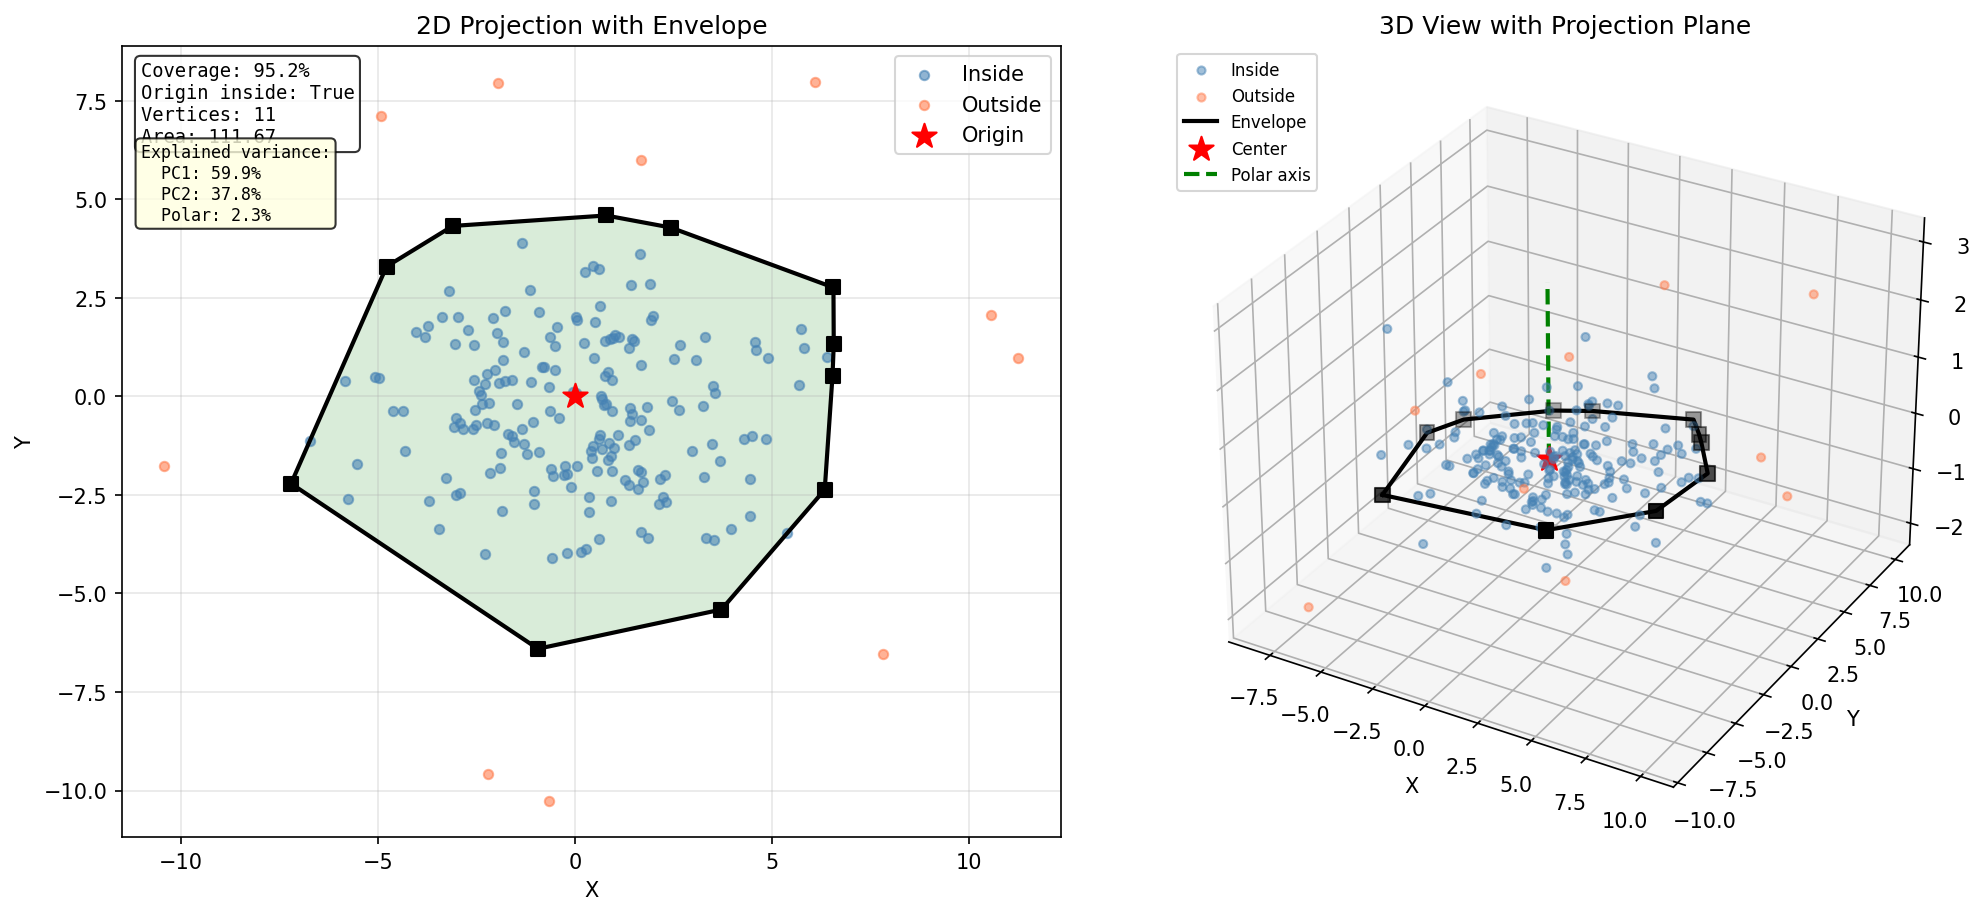
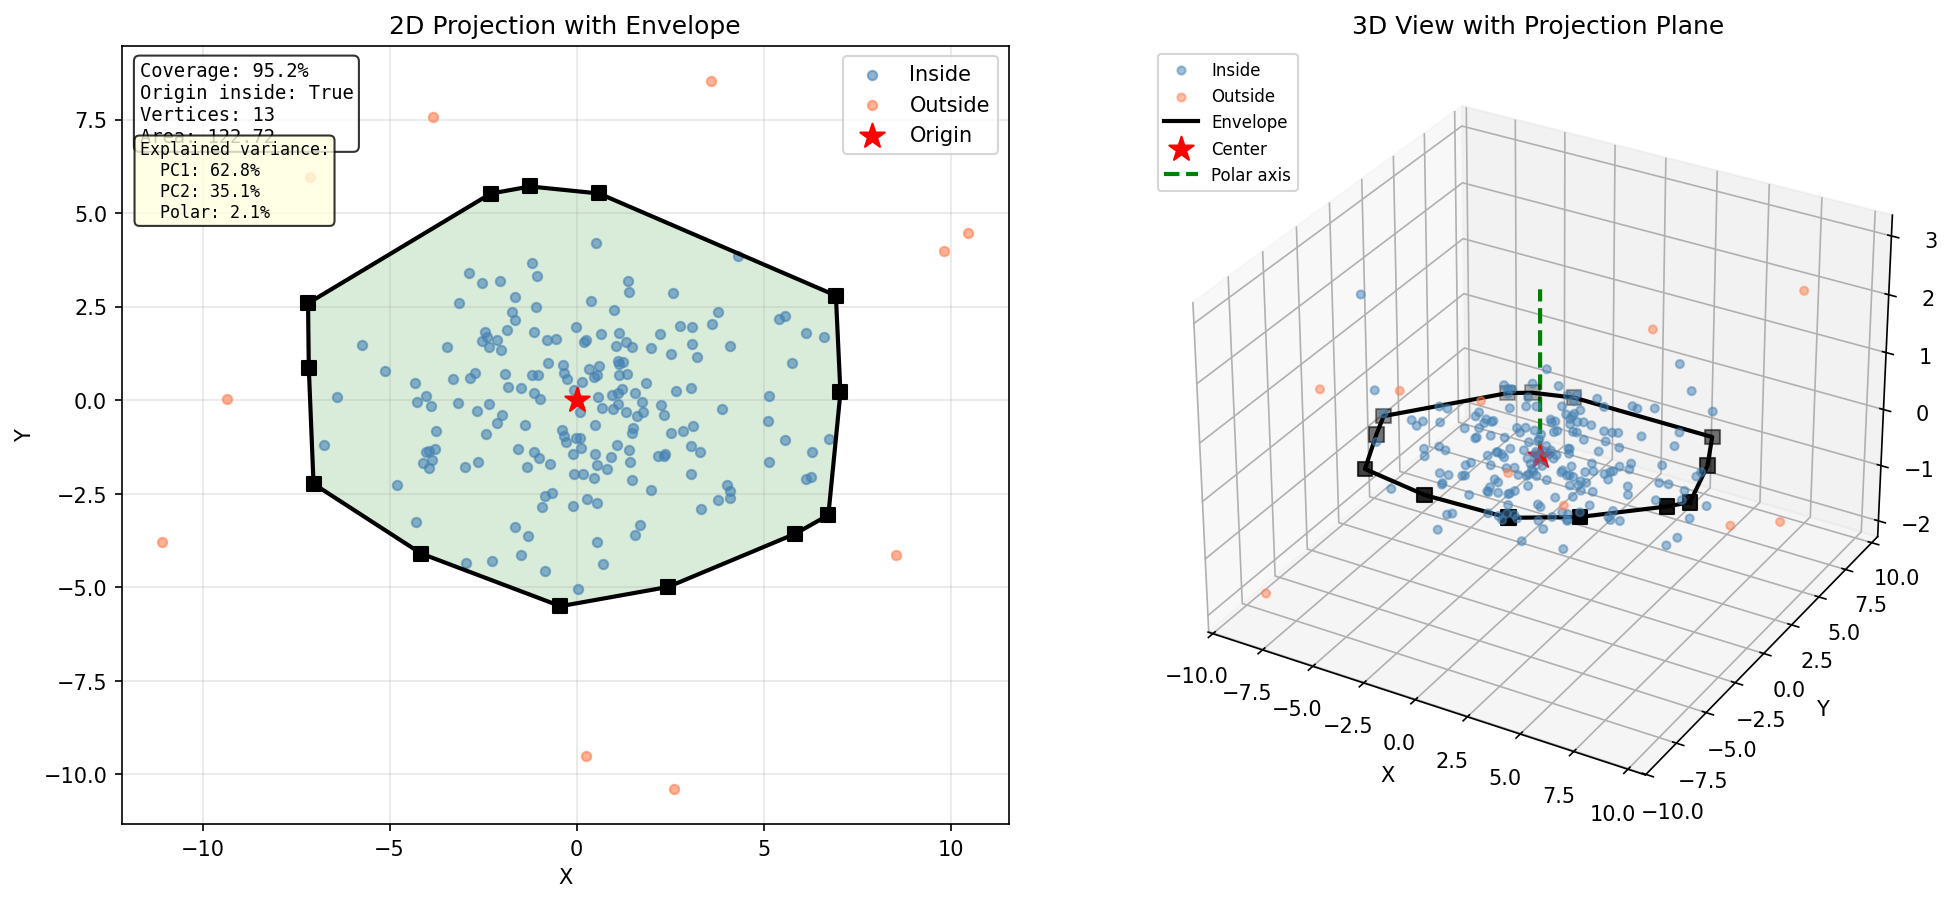
Finished Project: Created separate demo file. Debugged + ensured all projections etc. well taken care of

diff --git a/projected_envelope.py b/projected_envelope.py
@@ -24,20 +24,12 @@ class ProjectionResult:
     """
     Container for projection results and metadata.
 
-    Attributes
-    ----------
-    points_2d : np.ndarray, shape (N, 2)
-        Projected 2D coordinates
-    points_3d : np.ndarray, shape (N, 3)
-        Original 3D coordinates
-    polar_axis : np.ndarray, shape (3,)
-        The polar axis (normal to projection plane)
-    basis : np.ndarray, shape (2, 3)
-        Orthonormal basis vectors spanning the projection plane
-    center_3d : np.ndarray, shape (3,)
-        Center point used for projection (usually origin or centroid)
-    explained_variance_ratio : np.ndarray, shape (3,)
-        PCA explained variance ratios
+    points_2d : Projected 2D coordinates
+    points_3d : Original 3D coordinates
+    polar_axis : The polar axis (normal to projection plane)
+    basis : Orthonormal basis vectors spanning the projection plane
+    center_3d : Center point used for projection (usually origin or centroid)
+    explained_variance_ratio : PCA explained variance ratios
     """
     points_2d: np.ndarray
     points_3d: np.ndarray
@@ -52,16 +44,10 @@ class EnvelopeResult:
     """
     Container for the full envelope computation results.
 
-    Attributes
-    ----------
-    envelope_2d : np.ndarray, shape (M, 2)
-        Convex envelope vertices in 2D (CCW order)
-    envelope_3d : np.ndarray, shape (M, 3)
-        Envelope vertices lifted back to 3D (on the projection plane)
-    projection : ProjectionResult
-        Full projection information
-    stats : dict
-        Envelope statistics (coverage, area, etc.)
+    envelope_2d : Convex envelope vertices in 2D (CCW order)
+    envelope_3d : Envelope vertices lifted back to 3D (on the projection plane)
+    projection : Full projection information
+    stats : Envelope statistics (coverage, area, etc.)
     """
     envelope_2d: np.ndarray
     envelope_3d: np.ndarray
@@ -77,24 +63,10 @@ def project_to_2d(
     """
     Project 3D points onto a 2D plane using PCA.
 
-    The projection plane is spanned by the two principal components with
-    highest variance. The polar axis (normal to the plane) is the direction
-    of smallest variance.
+    The projection plane is spanned by the two principal components with highest variance. Thus components that best capture data spread. Preserves as much original info.
 
-    Parameters
-    ----------
-    points_3d : np.ndarray, shape (N, 3)
-        Input 3D points
-    center : np.ndarray, shape (3,), optional
-        Center point for projection. If None, uses the origin [0, 0, 0].
-        Points are translated so this becomes the origin in 2D.
-    return_full : bool
-        If True, return full ProjectionResult; if False, return just points_2d
+    The polar axis (normal to the plane) is the direction of smallest variance.
 
-    Returns
-    -------
-    ProjectionResult
-        Container with projected points and projection metadata
     """
     points_3d = np.asarray(points_3d, dtype=np.float64)
 
@@ -106,22 +78,14 @@ def project_to_2d(
     else:
         center = np.asarray(center, dtype=np.float64)
 
-    # Center the data at the specified point
     centered = points_3d - center
-
-    # Fit PCA to find principal directions
     pca = PCA(n_components=3)
     pca.fit(centered)
 
-    # The basis vectors for the 2D plane (first two principal components)
-    # These are rows of pca.components_
     basis = pca.components_[:2]  # Shape (2, 3)
 
-    # Polar axis is the third principal component (smallest variance)
     polar_axis = pca.components_[2]  # Shape (3,)
 
-    # Project points onto the 2D plane
-    # points_2d[i] = [dot(centered[i], basis[0]), dot(centered[i], basis[1])]
     points_2d = centered @ basis.T  # Shape (N, 2)
 
     return ProjectionResult(
@@ -140,18 +104,6 @@ def lift_to_3d(
 ) -> np.ndarray:
     """
     Lift 2D points back to 3D on the projection plane.
-
-    Parameters
-    ----------
-    points_2d : np.ndarray, shape (K, 2)
-        Points in 2D projection space
-    projection : ProjectionResult
-        Projection metadata from project_to_2d()
-
-    Returns
-    -------
-    np.ndarray, shape (K, 3)
-        Points in original 3D space (on the projection plane)
     """
     points_2d = np.atleast_2d(points_2d)
 
@@ -172,45 +124,21 @@ def fit_projected_envelope(
     center: Optional[np.ndarray] = None
 ) -> EnvelopeResult:
     """
-    Project 3D data to 2D and compute a robust convex envelope.
+    MAIN METHOD: Project 3D data to 2D and compute a robust convex envelope.
 
-    This is the main entry point. It:
     1. Projects 3D points onto the principal plane (via PCA)
     2. Computes a convex envelope containing ~coverage fraction of points
     3. Ensures the origin/center is inside the envelope
-
-    Parameters
-    ----------
-    points_3d : np.ndarray, shape (N, 3)
-        Input 3D point cloud
-    coverage : float
-        Fraction of points to include in envelope (default 0.95)
-    include_origin : bool
-        Whether to ensure origin is inside envelope (default True)
-    center : np.ndarray, shape (3,), optional
-        3D center point. If None, uses [0, 0, 0].
-        This point maps to (0, 0) in 2D and will be inside the envelope
-        if include_origin=True.
-
-    Returns
-    -------
-    EnvelopeResult
-        Container with envelope vertices (2D and 3D), projection info, and stats
     """
-    # Project to 2D
     projection = project_to_2d(points_3d, center=center)
 
-    # Fit envelope in 2D
     envelope_2d = fit_envelope(
         projection.points_2d,
         coverage=coverage,
         include_origin=include_origin
     )
 
-    # Lift envelope back to 3D
     envelope_3d = lift_to_3d(envelope_2d, projection)
-
-    # Compute stats
     stats = envelope_stats(envelope_2d, projection.points_2d)
 
     return EnvelopeResult(
@@ -230,17 +158,7 @@ def contains_projected(
 
     Projects the query points onto the same 2D plane and tests containment.
 
-    Parameters
-    ----------
-    result : EnvelopeResult
-        Result from fit_projected_envelope()
-    points_3d : np.ndarray, shape (K, 3)
-        3D points to test
 
-    Returns
-    -------
-    np.ndarray, shape (K,), dtype=bool
-        True if point projects inside the 2D envelope
     """
     points_3d = np.atleast_2d(points_3d)
 
@@ -257,20 +175,8 @@ def plot_projected_envelope(
     figsize: Tuple[int, int] = (14, 6)
 ) -> plt.Figure:
     """
-    Visualize the projected envelope in both 2D and 3D.
+    Helper to visualize the projected envelope in both 2D and 3D.
 
-    Parameters
-    ----------
-    result : EnvelopeResult
-        Result from fit_projected_envelope()
-    show_3d : bool
-        If True, show side-by-side 2D and 3D plots
-    figsize : tuple
-        Figure size
-
-    Returns
-    -------
-    matplotlib Figure
     """
     if show_3d:
         fig = plt.figure(figsize=figsize)
@@ -372,64 +278,3 @@ def _plot_3d(result: EnvelopeResult, ax: Axes3D) -> None:
     ax.set_zlabel('Z')
     ax.set_title('3D View with Projection Plane')
     ax.legend(loc='upper left', fontsize=8)
-
-
-if __name__ == "__main__":
-    # Demo: Generate 3D data and compute projected envelope
-    np.random.seed(42)
-
-    # Create a 3D point cloud - elongated ellipsoid with some outliers
-    n_main = 200
-    n_outliers = 10
-
-    # Main cluster: stretched along one axis
-    main_points = np.random.randn(n_main, 3)
-    main_points[:, 0] *= 3.0  # Stretch along x
-    main_points[:, 1] *= 2.0  # Medium along y
-    main_points[:, 2] *= 0.5  # Thin along z
-
-    # Add some rotation to make it interesting
-    theta = np.pi / 6
-    rotation = np.array([
-        [np.cos(theta), -np.sin(theta), 0],
-        [np.sin(theta), np.cos(theta), 0],
-        [0, 0, 1]
-    ])
-    main_points = main_points @ rotation.T
-
-    # Add outliers
-    outliers = np.random.randn(n_outliers, 3) * 0.5
-    outliers += np.array([[8, 8, 2], [-7, 5, -1], [6, -8, 1],
-                          [-8, -8, -2], [10, 0, 0], [0, 10, 1],
-                          [-5, -5, 3], [7, 7, -2], [-9, 3, 0], [4, -9, 1]])
-
-    all_points = np.vstack([main_points, outliers])
-
-    # Compute projected envelope
-    print("Computing projected envelope...")
-    result = fit_projected_envelope(
-        all_points,
-        coverage=0.95,
-        include_origin=True
-    )
-
-    # Print results
-    print("\n=== Projected Envelope Results ===")
-    print(f"Input: {len(all_points)} 3D points")
-    print(f"\nPCA Analysis:")
-    print(f"  Explained variance: {result.projection.explained_variance_ratio}")
-    print(f"  Polar axis: {result.projection.polar_axis}")
-    print(f"\nEnvelope Stats:")
-    for key, value in result.stats.items():
-        if key != 'centroid':
-            print(f"  {key}: {value}")
-
-    # Test containment of origin
-    origin_inside = contains_projected(result, np.array([[0, 0, 0]]))[0]
-    print(f"\nOrigin [0,0,0] inside envelope: {origin_inside}")
-
-    # Plot
-    fig = plot_projected_envelope(result, show_3d=True)
-    plt.savefig('projected_envelope_demo.png', dpi=150, bbox_inches='tight')
-    print("\nPlot saved to: projected_envelope_demo.png")
-    plt.show()

diff --git a/test_demos.py b/test_demos.py
@@ -2,6 +2,7 @@ from convex_envelope import fit_envelope, envelope_stats, plot_envelope
 import numpy as np
 import matplotlib.pyplot as plt
 from scipy.spatial import ConvexHull
+from projected_envelope import fit_projected_envelope, contains_projected, plot_projected_envelope
 
 def test_convex_envelope():
 
@@ -29,6 +30,63 @@ def test_convex_envelope():
     plt.tight_layout()
     plt.show()
 
+def test_projected_envelope():
+    # Create a 3D point cloud - elongated ellipsoid with some outliers
+    n_main = 200
+    n_outliers = 10
+
+    # Main cluster: stretched along one axis
+    main_points = np.random.randn(n_main, 3)
+    main_points[:, 0] *= 3.0  # Stretch along x
+    main_points[:, 1] *= 2.0  # Medium along y
+    main_points[:, 2] *= 0.5  # Thin along z
+
+    # Add some rotation to make it interesting
+    theta = np.pi / 6
+    rotation = np.array([
+        [np.cos(theta), -np.sin(theta), 0],
+        [np.sin(theta), np.cos(theta), 0],
+        [0, 0, 1]
+    ])
+    main_points = main_points @ rotation.T
+
+    # Add outliers
+    outliers = np.random.randn(n_outliers, 3) * 0.5
+    outliers += np.array([[8, 8, 2], [-7, 5, -1], [6, -8, 1],
+                          [-8, -8, -2], [10, 0, 0], [0, 10, 1],
+                          [-5, -5, 3], [7, 7, -2], [-9, 3, 0], [4, -9, 1]])
+
+    all_points = np.vstack([main_points, outliers])
+
+    # Compute projected envelope
+    print("Computing projected envelope...")
+    result = fit_projected_envelope(
+        all_points,
+        coverage=0.95,
+        include_origin=True
+    )
+
+    # Print results
+    print("\n=== Projected Envelope Results ===")
+    print(f"Input: {len(all_points)} 3D points")
+    print(f"\nPCA Analysis:")
+    print(f"  Explained variance: {result.projection.explained_variance_ratio}")
+    print(f"  Polar axis: {result.projection.polar_axis}")
+    print(f"\nEnvelope Stats:")
+    for key, value in result.stats.items():
+        if key != 'centroid':
+            print(f"  {key}: {value}")
+
+    # Test containment of origin
+    origin_inside = contains_projected(result, np.array([[0, 0, 0]]))[0]
+    print(f"\nOrigin [0,0,0] inside envelope: {origin_inside}")
+
+    # Plot
+    fig = plot_projected_envelope(result, show_3d=True)
+    plt.savefig('projected_envelope_demo.png', dpi=150, bbox_inches='tight')
+    print("\nPlot saved to: projected_envelope_demo.png")
+    plt.show()
 
 if __name__ == "__main__":
-    test_convex_envelope()
+    #test_convex_envelope()
+    test_projected_envelope()
